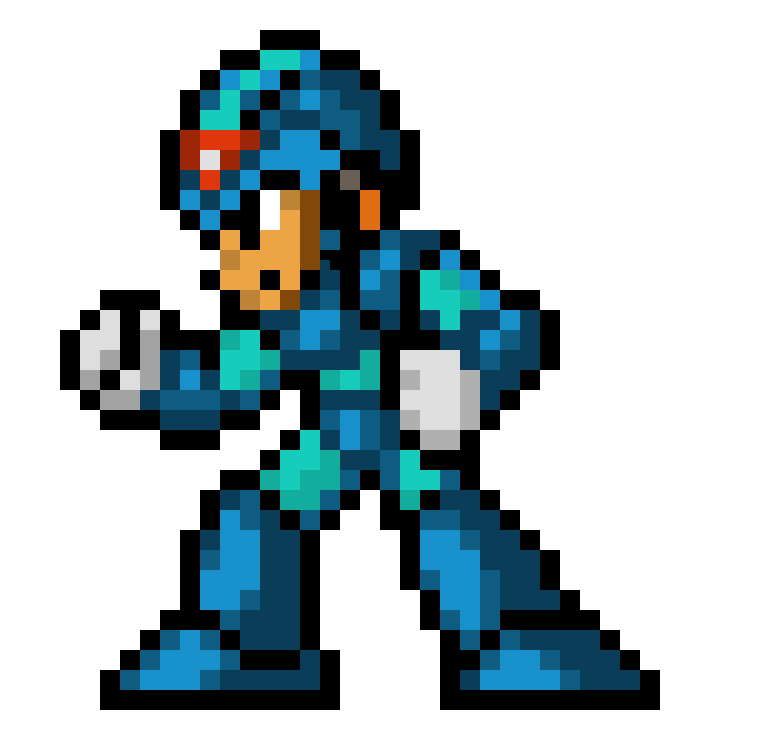
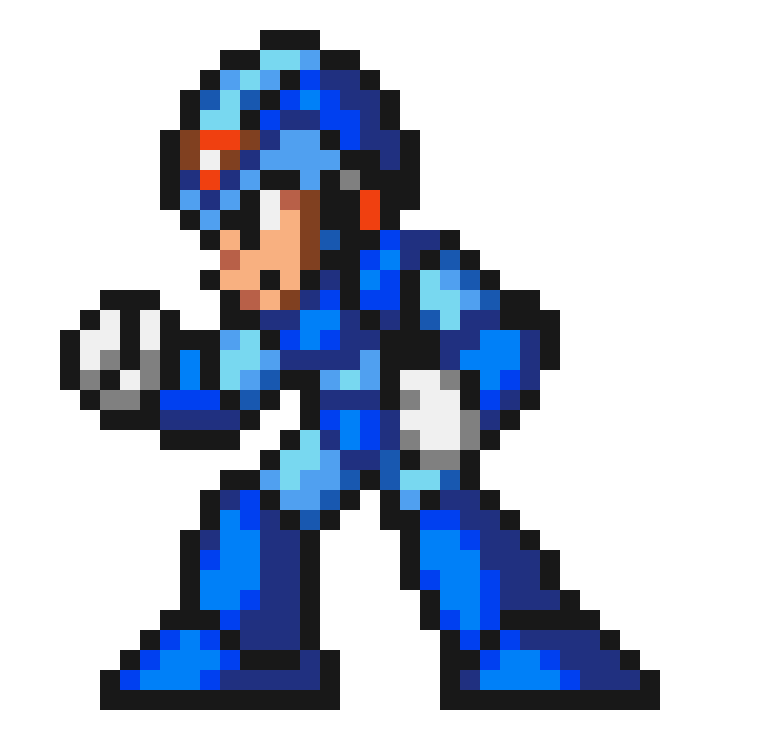
Created Player class
- Created player class
- Moved player code to player class
- Added player2 temporary sprite

Changed region(s): [[0.0923, 0.0613, 0.8308, 0.92]]

diff --git a/OneBullet/OneBullet/Game1.cs b/OneBullet/OneBullet/Game1.cs
@@ -11,30 +11,15 @@ namespace OneBullet
 	{
 		GraphicsDeviceManager graphics;
 		SpriteBatch spriteBatch;
+		Player player1;
 		Texture2D megaManXR;
 		Texture2D megaManXL;
 		Texture2D p1GunR;
 		Texture2D p1GunL;
-		Texture2D p1GunSprite;
-		Texture2D p1Sprite;
-		Rectangle p1Position;
-		Rectangle p1GunPosition;
-		Vector2 p1Velocity;
-		int p1LevelOffset;
-		const int p1Acceleration = 3;
-		bool onGround, jumping;
+		const int pAcceleration = 3;
 		double charSize;
 		KeyboardState kState;
 		private KeyboardState oldKState;
-
-		enum GunLevel
-		{
-			High,
-			Mid,
-			Low
-		};
-
-		GunLevel level = GunLevel.Mid;
 
 		public Game1()
 		{
@@ -60,15 +45,9 @@ namespace OneBullet
 		protected override void Initialize()
 		{
 			// TODO: Add your initialization logic here
-
+			player1 = new Player();
 			base.Initialize();
-			p1Position = new Rectangle(GraphicsDevice.Viewport.Width/2, GraphicsDevice.Viewport.Height - (int)charSize, (int)(charSize * 1.04), (int)charSize);
-			p1GunPosition = p1Position;
-			p1GunPosition.X += (int)charSize/2;
-			p1Velocity = new Vector2(0, 0);
-			onGround = true;
-			jumping = false;
-			p1LevelOffset = 0;
+			
 		}
 
 		/// <summary>
@@ -81,12 +60,15 @@ namespace OneBullet
 			spriteBatch = new SpriteBatch(GraphicsDevice);
 
 			// TODO: use this.Content to load your game content here
+			Rectangle p1Position = new Rectangle(GraphicsDevice.Viewport.Width / 4, GraphicsDevice.Viewport.Height - (int)charSize, (int)(charSize * 1.04), (int)charSize);
+			int p1GunOffset = (int)charSize / 2;
+
 			megaManXR = Content.Load<Texture2D>("MegaManX_Right");
 			megaManXL = Content.Load<Texture2D>("MegaManX_Left");
 			p1GunR = Content.Load<Texture2D>("gun_right");
 			p1GunL = Content.Load<Texture2D>("gun_left");
-			p1GunSprite = p1GunR;
-			p1Sprite = megaManXR;
+
+			player1.Initialize(megaManXR, p1GunR, p1Position, p1GunOffset);
 		}
 
 		/// <summary>
@@ -115,94 +97,24 @@ namespace OneBullet
 
 			if (kState.IsKeyDown(Keys.A)) // Move left
 			{
-				p1Velocity.X -= 10;
-				p1Sprite = megaManXL;
-				p1GunSprite = p1GunL;
-				p1GunPosition.X = p1Position.X - (int)charSize/2;
+				player1.pVelocity.X -= 10;
+				if (player1.pTexture == megaManXR)
+				{
+					player1.Turn(megaManXL, p1GunL, -(int)charSize / 2);
+				}
 			}
 			if (kState.IsKeyDown(Keys.D)) // Move right
 			{
-				p1Velocity.X += 10;
-				p1Sprite = megaManXR;
-				p1GunSprite = p1GunR;
-				p1GunPosition.X = p1Position.X + (int)charSize/2;
-			}
-			if (kState.IsKeyDown(Keys.G)) // Jump
-			{
-				if (onGround && !jumping)
+				player1.pVelocity.X += 10;
+				if (player1.pTexture == megaManXL)
 				{
-					p1Velocity.Y -= 30;
-					jumping = true;
-				}
-				else if (!onGround && jumping && p1Velocity.Y < 0)
-				{
-					p1Velocity.Y -= 1;
+					player1.Turn(megaManXR, p1GunR, (int)charSize / 2);
 				}
 			}
-			if (kState.IsKeyUp(Keys.G) && oldKState.IsKeyDown(Keys.G))
-			{
-				jumping = false;
-			}
-			if (kState.IsKeyDown(Keys.W) && oldKState.IsKeyUp(Keys.W)) // Change gun level
-			{
-				if (level == GunLevel.Low)
-				{
-					level = GunLevel.Mid;
-					p1LevelOffset = 0;
-				}
-				else if (level == GunLevel.Mid)
-				{
-					level = GunLevel.High;
-					p1LevelOffset = -((int)charSize / 4);
-				}
-			}
-			if (kState.IsKeyDown(Keys.S) && oldKState.IsKeyUp(Keys.S)) // Change gun level
-			{
-				if (level == GunLevel.High)
-				{
-					level = GunLevel.Mid;
-					p1LevelOffset = 0;
-				}
-				else if (level == GunLevel.Mid)
-				{
-					level = GunLevel.Low;
-					p1LevelOffset = (int)charSize / 4;
-				}
-			}
+
+			player1.Update(kState, oldKState, GraphicsDevice, charSize);
 
 			oldKState = kState;
-
-			// ------------------------------------------ Falling parameters
-			if (p1Position.Y < GraphicsDevice.Viewport.Height - charSize)
-			{
-				onGround = false;
-				p1Velocity.Y += p1Acceleration;
-			}
-			else if (!onGround)
-			{
-				onGround = true;
-				p1Velocity.Y = 0;
-			}
-
-			// ------------------------------------------ Calculating velocity
-			p1Position.X += (int)p1Velocity.X;
-			if (p1Position.X > GraphicsDevice.Viewport.Width - (int)charSize)
-			{
-				p1Position.X = GraphicsDevice.Viewport.Width - (int)charSize;
-			}
-			else if (p1Position.X < 0)
-			{
-				p1Position.X = 0;
-			}
-			p1Position.Y += (int)p1Velocity.Y;
-			if (p1Position.Y > GraphicsDevice.Viewport.Height - (int)charSize)
-				p1Position.Y = GraphicsDevice.Viewport.Height - (int)charSize;
-
-			p1GunPosition.X += (int)p1Velocity.X;
-			p1GunPosition.Y = p1Position.Y + p1LevelOffset;
-
-			// ------------------------------------------ Resetting values
-			p1Velocity.X = 0;
 
 			base.Update(gameTime);
 		}
@@ -217,8 +129,7 @@ namespace OneBullet
 
 			// TODO: Add your drawing code here
 			spriteBatch.Begin();
-			spriteBatch.Draw(p1Sprite, p1Position, Color.White);
-			spriteBatch.Draw(p1GunSprite, p1GunPosition, Color.White);
+			player1.Draw(spriteBatch);
 			spriteBatch.End();
 
 			base.Draw(gameTime);

diff --git a/OneBullet/OneBullet/Player.cs b/OneBullet/OneBullet/Player.cs
@@ -1,0 +1,135 @@
+using Microsoft.Xna.Framework;
+using Microsoft.Xna.Framework.Graphics;
+using Microsoft.Xna.Framework.Input;
+
+namespace OneBullet
+{
+	class Player
+	{
+		public Texture2D pTexture;
+		public Texture2D pGunTexture;
+		public Rectangle pPosition;
+		public Rectangle pGunPosition;
+		public Vector2 pVelocity;
+		public int pLevelOffset;
+		public int pGunOffset;
+		const int pAcceleration = 3;
+		public bool onGround, jumping;
+
+		public enum GunLevel
+		{
+			High,
+			Mid,
+			Low
+		};
+
+		public GunLevel level = GunLevel.Mid;
+
+		public void Initialize(Texture2D texture, Texture2D gunTexture, Rectangle position, int gunOffset)
+		{
+			pTexture = texture;
+			pGunTexture = gunTexture;
+			pPosition = position;
+			pGunOffset = gunOffset;
+			pGunPosition = pPosition;
+			pGunPosition.X = pPosition.X + gunOffset;
+			pVelocity = new Vector2(0, 0);
+			onGround = true;
+			jumping = false;
+			pLevelOffset = 0;
+		}
+
+		public void Update(KeyboardState kState, KeyboardState oldKState, GraphicsDevice graphics, double charSize)
+		{
+			if (kState.IsKeyDown(Keys.G)) // Jump
+			{
+				if (onGround && !jumping)
+				{
+					pVelocity.Y -= 30;
+					jumping = true;
+				}
+				else if (!onGround && jumping && pVelocity.Y < 0)
+				{
+					pVelocity.Y -= 1;
+				}
+			}
+			if (kState.IsKeyUp(Keys.G) && oldKState.IsKeyDown(Keys.G))
+			{
+				jumping = false;
+			}
+			if (kState.IsKeyDown(Keys.W) && oldKState.IsKeyUp(Keys.W)) // Change gun level
+			{
+				if (level == Player.GunLevel.Low)
+				{
+					level = Player.GunLevel.Mid;
+					pLevelOffset = 0;
+				}
+				else if (level == Player.GunLevel.Mid)
+				{
+					level = Player.GunLevel.High;
+					pLevelOffset = -((int)charSize / 4);
+				}
+			}
+			if (kState.IsKeyDown(Keys.S) && oldKState.IsKeyUp(Keys.S)) // Change gun level
+			{
+				if (level == Player.GunLevel.High)
+				{
+					level = Player.GunLevel.Mid;
+					pLevelOffset = 0;
+				}
+				else if (level == Player.GunLevel.Mid)
+				{
+					level = Player.GunLevel.Low;
+					pLevelOffset = (int)charSize / 4;
+				}
+			}
+
+			// ------------------------------------------ Falling parameters
+			if (pPosition.Y < graphics.Viewport.Height - charSize)
+			{
+				onGround = false;
+				pVelocity.Y += pAcceleration;
+			}
+			else if (!onGround)
+			{
+				onGround = true;
+				pVelocity.Y = 0;
+			}
+
+			// ------------------------------------------ Calculating velocity
+			pGunPosition.X = pPosition.X + pGunOffset;
+
+			pPosition.X += (int)pVelocity.X;
+			if (pPosition.X > graphics.Viewport.Width - (int)charSize)
+			{
+				pPosition.X = graphics.Viewport.Width - (int)charSize;
+			}
+			else if (pPosition.X < 0)
+			{
+				pPosition.X = 0;
+			}
+			pPosition.Y += (int)pVelocity.Y;
+			if (pPosition.Y > graphics.Viewport.Height - (int)charSize)
+				pPosition.Y = graphics.Viewport.Height - (int)charSize;
+
+			pGunPosition.X += (int)pVelocity.X;
+			pGunPosition.Y = pPosition.Y + pLevelOffset;
+
+			// ------------------------------------------ Resetting values
+			pVelocity.X = 0;
+		}
+
+		public void Draw(SpriteBatch spriteBatch)
+		{
+			spriteBatch.Draw(pTexture, pPosition, Color.White);
+			spriteBatch.Draw(pGunTexture, pGunPosition, Color.White);
+		}
+
+		public void Turn(Texture2D texture, Texture2D gunTexture, int gunOffset)
+		{
+			pTexture = texture;
+			pGunTexture = gunTexture;
+			pGunOffset = gunOffset;
+		}
+	}
+}
